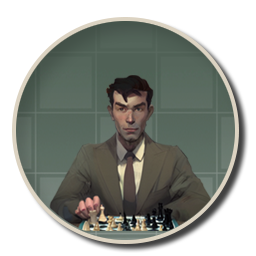
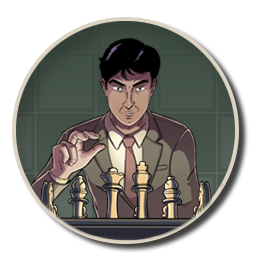
Fix the look of master of chess press kit page

diff --git a/src/src/pages/master-of-chess/index.tsx b/src/src/pages/master-of-chess/index.tsx
@@ -3,23 +3,23 @@ import styles from "./master-of-chess.module.css";
 
 export default function Home(): JSX.Element {
   const MasterOfChessBannerUrl =
-    require("@site/static/img/master_of_chess/banner.png").default;
+    require("@site/static/img/master_of_chess/banner.jpg").default;
   const MasterOfChessSmallBannerUrl =
     require("@site/static/img/master_of_chess/small_capsule.png").default;
   const MasterOfChessIconUrl =
     require("@site/static/img/master_of_chess/master_of_chess_icon.png").default;
   const MatchScreenshotUrl =
-    "https://img.itch.zone/aW1hZ2UvMTgwMDAyMC8xMjUyNTAzMC5wbmc=/original/z3HXs9.png";
+    "https://img.itch.zone/aW1hZ2UvMTgwMDAyMC8xMzM3NDA4NS5wbmc=/794x1000/MoJz95.png";
   const OpeningsUrl =
-    "https://img.itch.zone/aW1hZ2UvMTgwMDAyMC8xMjUyNTAzNC5wbmc=/original/7AhOqt.png";
-  const CampaignsUrl =
+    "https://img.itch.zone/aW1hZ2UvMTgwMDAyMC8xMjUyNTAzNC5wbmc=/794x1000/M86WyS.png";
+  const MatchVersusScreenUrl =
     "https://img.itch.zone/aW1hZ2UvMTgwMDAyMC8xMjUyNTAzMi5wbmc=/original/FpEpMj.png";
   const tournamentsUrl =
     "https://img.itch.zone/aW1hZ2UvMTgwMDAyMC8xMjUyNTAzMy5wbmc=/original/RvWaD5.png";
   const createPlayerUrl =
-    "https://img.itch.zone/aW1hZ2UvMTgwMDAyMC8xMjc5Njk2Ni5wbmc=/original/48W1GC.png";
+    "https://img.itch.zone/aW1hZ2UvMTgwMDAyMC8xMzM3NDA4MS5wbmc=/794x1000/4eWR6y.png";
   const puzzlesUrl =
-    "https://img.itch.zone/aW1hZ2UvMTgwMDAyMC8xMjUyNTAzMS5wbmc=/original/O5GlvZ.png";
+    "https://img.itch.zone/aW1hZ2UvMTgwMDAyMC8xMzM3NDA4Mi5wbmc=/794x1000/QFjQNk.png";
   const BRANEIconUrl = require("@site/static/img/BRANE.png").default;
   return (
     <div className={styles.centralAlign}>
@@ -94,19 +94,19 @@ export default function Home(): JSX.Element {
           </div>
           <div style={{ display: "flex", maxWidth: "100%" }}>
             <div>
-              <a href={tournamentsUrl} target="_blank">
+              <a href={createPlayerUrl} target="_blank">
                 <img
                   style={{ margin: "auto" }}
-                  src={tournamentsUrl}
+                  src={createPlayerUrl}
                   alt="Tournaments Screenshot"
                 ></img>
               </a>
             </div>
             <div>
-              <a href={CampaignsUrl} target="_blank">
+              <a href={puzzlesUrl} target="_blank">
                 <img
                   style={{ margin: "auto" }}
-                  src={CampaignsUrl}
+                  src={puzzlesUrl}
                   alt="Campaigns Screenshot"
                 ></img>
               </a>
@@ -114,13 +114,16 @@ export default function Home(): JSX.Element {
           </div>
           <div style={{ display: "flex", width: "100%" }}>
             <div style={{ margin: "auto", width: "50%" }}>
-              <a href={createPlayerUrl} target="_blank">
-                <img src={createPlayerUrl} alt="Create Player Screenshot"></img>
+              <a href={MatchVersusScreenUrl} target="_blank">
+                <img
+                  src={MatchVersusScreenUrl}
+                  alt="Create Player Screenshot"
+                ></img>
               </a>
             </div>
             <div style={{ margin: "auto", width: "50%" }}>
-              <a href={puzzlesUrl} target="_blank">
-                <img src={puzzlesUrl} alt="Puzzles Screenshot"></img>
+              <a href={tournamentsUrl} target="_blank">
+                <img src={tournamentsUrl} alt="Puzzles Screenshot"></img>
               </a>
             </div>
           </div>
@@ -130,7 +133,7 @@ export default function Home(): JSX.Element {
             Bosnia and Herzegovina, currently living and working in Germany.
             With some award winning game jam games and a lot more semi-finished
             nothing winning games on his portfolio he is the solo developer of
-            the exciting chess management game - Master of Chess.
+            the exciting chess career simulation game - Master of Chess.
           </span>
           <h1>Assets</h1>
           <div style={{ display: "flex", flexWrap: "wrap" }}>
@@ -140,45 +143,47 @@ export default function Home(): JSX.Element {
               alt="Master of chess icon"
             ></img>
             <img
-              style={{ margin: "auto" }}
+              style={{ margin: "auto", padding: "16px" }}
               src={MasterOfChessSmallBannerUrl}
               alt="Master of chess icon"
             ></img>
             <img
-              style={{ margin: "auto" }}
+              style={{ margin: "auto", padding: "16px" }}
               src={BRANEIconUrl}
               alt="Master of chess icon"
             ></img>
+            <div style={{ display: "flex", padding: "16px" }}>
+              <img
+                style={{ margin: "auto", maxWidth: "50%", padding: "16px" }}
+                src={
+                  require("@site/static/img/master_of_chess/title2.png").default
+                }
+                alt="Master of chess title 2"
+              ></img>
+              <img
+                style={{ margin: "auto", maxWidth: "50%", padding: "16px" }}
+                src={
+                  require("@site/static/img/master_of_chess/title1.png").default
+                }
+                alt="Master of chess title 1"
+              ></img>
+            </div>
             <img
-              style={{ margin: "auto" }}
-              src={
-                require("@site/static/img/master_of_chess/title2.png").default
-              }
-              alt="Master of chess title 2"
-            ></img>
-            <img
-              style={{ margin: "auto" }}
-              src={
-                require("@site/static/img/master_of_chess/title1.png").default
-              }
-              alt="Master of chess title 1"
-            ></img>
-            <img
-              style={{ margin: "auto" }}
+              style={{ margin: "auto", padding: "16px" }}
               src={
                 require("@site/static/img/master_of_chess/master.png").default
               }
               alt="Master of chess"
             ></img>
             <img
-              style={{ margin: "auto" }}
+              style={{ margin: "auto", padding: "16px" }}
               src={require("@site/static/img/master_of_chess/bg.png").default}
               alt="background"
             ></img>
             <img
-              style={{ margin: "auto" }}
+              style={{ margin: "auto", padding: "16px" }}
               src={
-                require("@site/static/img/master_of_chess/banner.png").default
+                require("@site/static/img/master_of_chess/banner.jpg").default
               }
               alt="background"
             ></img>

diff --git a/src/src/pages/master-of-chess/docs/index.tsx b/src/src/pages/master-of-chess/docs/index.tsx
@@ -3,7 +3,7 @@ import styles from "../master-of-chess.module.css";
 
 export default function Home(): JSX.Element {
   const MasterOfChessBannerUrl =
-    require("@site/static/img/master_of_chess/banner.png").default;
+    require("@site/static/img/master_of_chess/banner.jpg").default;
 
   const BRANEIconUrl = require("@site/static/img/BRANE.png").default;
   return (

diff --git a/src/src/pages/master-of-chess/tasks-deprecated/index.tsx b/src/src/pages/master-of-chess/tasks-deprecated/index.tsx
@@ -95,7 +95,7 @@ const CustomAttributesDemo: React.FC = () => {
   };
 
   const MasterOfChessBannerUrl =
-    require("@site/static/img/master_of_chess/banner.png").default;
+    require("@site/static/img/master_of_chess/banner.jpg").default;
 
   return (
     <div className={styles.centralAlign}>
